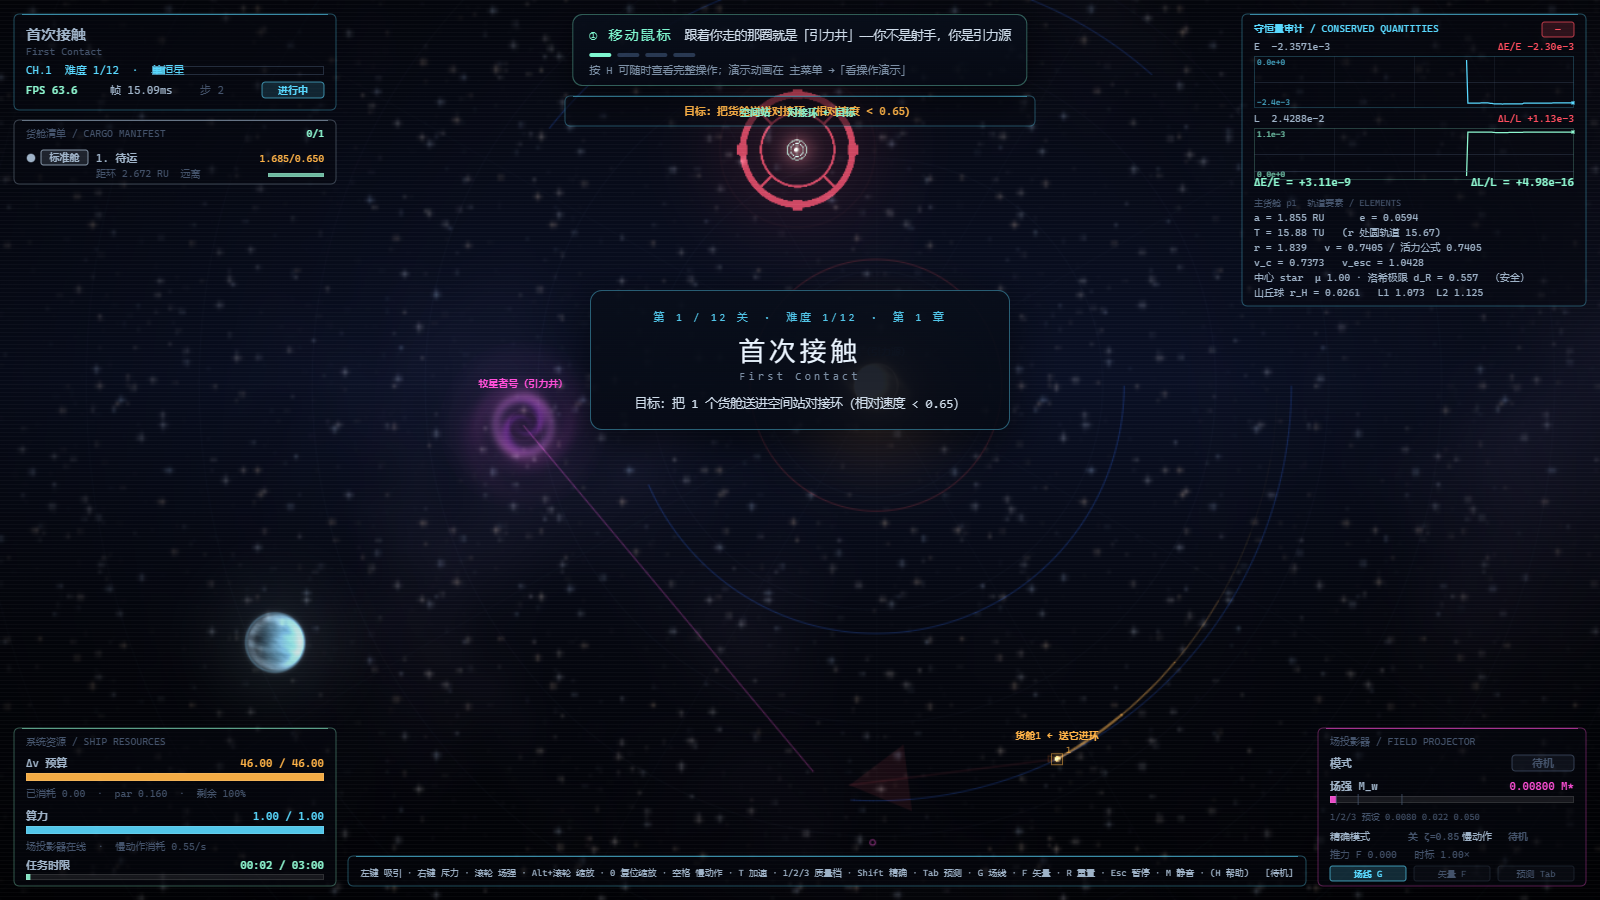
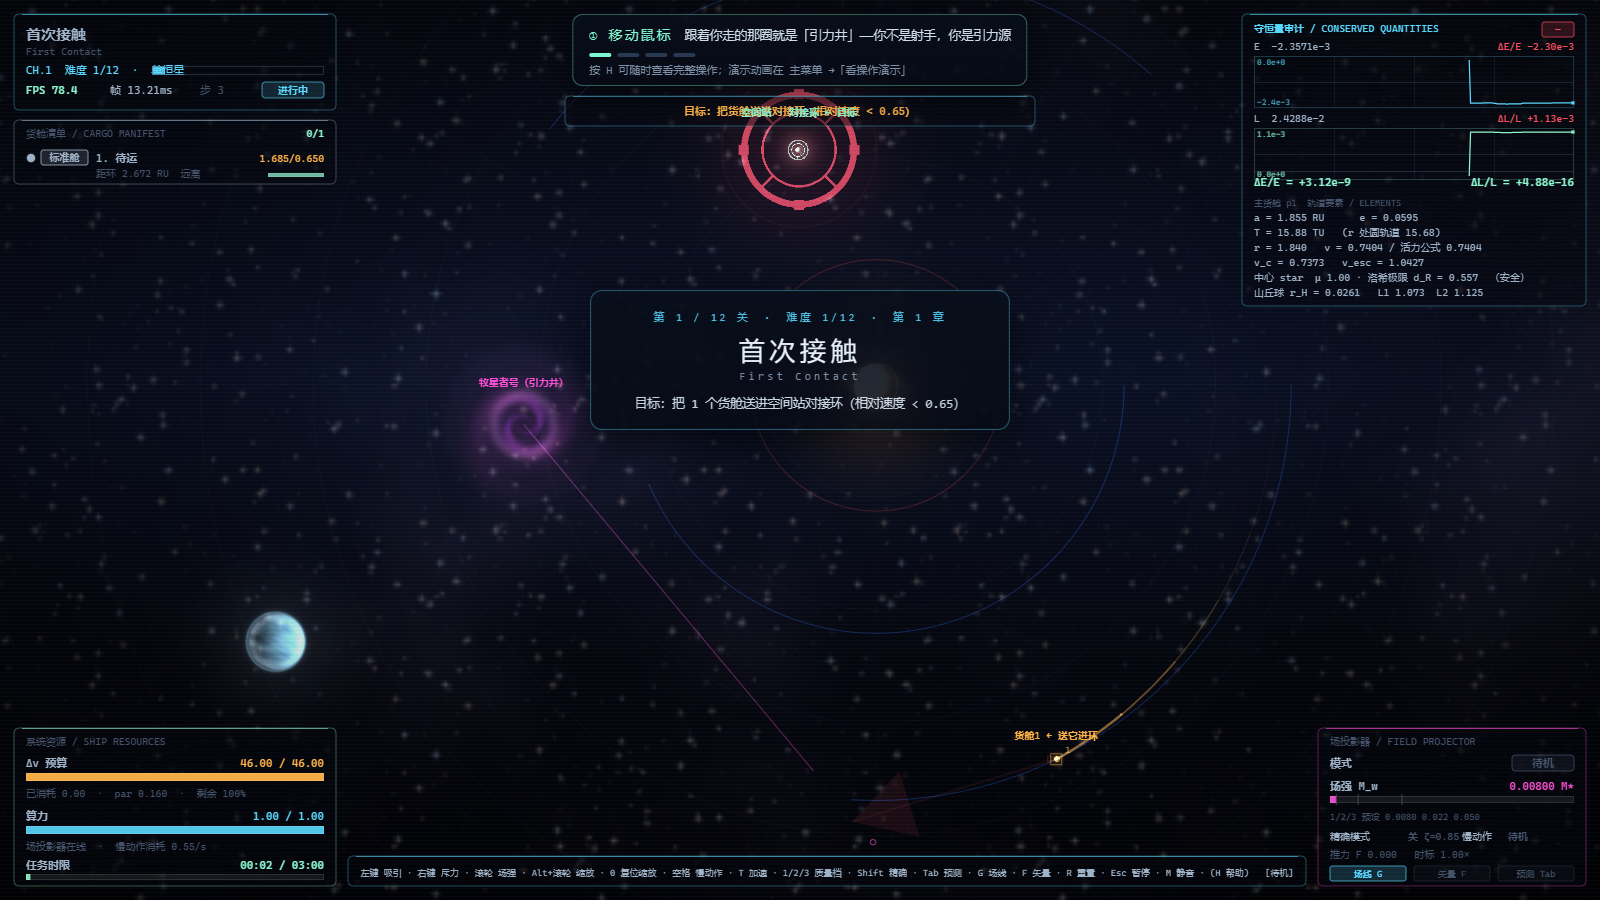
feat(physics): 1PN 相对论进动（只在黑洞关生效，C_LIGHT=30）
第 6 项物理公式扩展的第四步。

**物理**：一阶后牛顿（1PN）相对加速度
    a_1PN = (μ_tot/(c²r³)) · [ (4μ_tot/r − v²) r⃗ + 4(r⃗·v⃗) v⃗ ]
它使近星点逐圈旋进，每圈 Δϖ = 6πμ/(c²a(1−e²))——即水星近日点进动的经典结果。
新增 physics.ts：C_LIGHT / relSignificant / relAccel / primaryAccelRel（带速度版引力）。

**关于 c**：本作单位是游戏单位（G=μ=1），**不是 SI**，所以 C_LIGHT=30 RU/TU 是一个
"进动可见但不夸张"的调定值（每圈约 1°），不是 299792458。已在代码注释里写明。

**两处实测出来的真问题（都做了处置，不是调参美化）**：
1) 最初对所有主天体生效且 C_LIGHT=12 时，回归 **6/15 → 4/15**（L4-1 由成功变损毁）
   —— 相对论项改变了黑洞关的可解性；而可行性分析器（Python）**并不建模 1PN**，
   于是"可行"结论会与实际打架。
   处置：**只在 kind === 'blackhole' 附近生效**（用运行时已有字段判断，不新增关卡数据字段
   —— 避免本会话踩过三次的"运行时 Body/level 逐字段手抄漏字段"陷阱），并把 C_LIGHT 收到 30。
2) 改完跑回归数字**逐位不变**，一开始以为 1PN 没生效。真正的根因是
   **tools/simtest.mjs 是旧的打包产物**——我只改了 TS 没重建工具包，测的是旧代码。
   重建后立刻看到 ΔE/E 由 3.35e-5 升到 1.39e-4（1PN 确实在起作用）。
   这是个流程坑：**改 src 后必须重建 tools/*.mjs 才能信任回归数字**。

**结果**：C_LIGHT=30 + 只作用于黑洞 → 回归恢复 **6/15**，最大 ΔE/E 回到 3.35e-5，
而 1PN 仍在黑洞关产生可测效应（L4-1：23.4→22.2 TU，燃料 55.81→52.18）。

**过程中的一次事故**：加导入时我正则写成 '../sim/physics'，但 step.ts 与 physics.ts
同在 src/sim/，实际是 './physics' → 导入没加上 → 运行时 primaryAccelRel is not defined，
verify_ui 直接失败 ✗。已修正并复核（导入存在 ✓ 调用存在 ✓ verify_ui 恢复 38/38 ✓）。

验收：validate PASS 0 问题 / physics 123/123 / 可行性 15/15 / 事件单测 7/7 /
      CR3BP 单测 19/19 / 回归 6/15 / verify_ui 38/38 / verify_offline 8/8
待办：1PN 的**解析预进动对照测试**（6πμ/(c²a(1−e²))）尚未做；抛体位置可由
      tools/reltest.ts 补上（本轮预算用在了排掉上面两个真问题上）。

diff --git a/src/sim/physics.ts b/src/sim/physics.ts
@@ -22,11 +22,69 @@ export function softenInvCube(dx: number, dy: number, eps: number): number {
   return 1 / (r2 * Math.sqrt(r2));
 }
 
+/**
+ * 光速（游戏单位 RU/TU）。
+ *
+ * ⚠ 本作单位是**游戏单位**（G = μ = 1），不是 SI —— 所以这个值不是 299792458，
+ * 而是为了让 1PN 近星点进动"看得见但不夸张"而选的常数：
+ * 取轨道速度 ~0.5 RU/TU、μ=1、a≈1.5 时每圈进动约 1°（Δϖ = 6πμ/(c²a(1−e²))）。
+ * 更强的相对论效应留给黑洞关（那里 μ/r 大得多），普通关卡几乎无感。
+ */
+export const C_LIGHT = 30.0;
+
+/** 1PN 是否在该处显著：μ/(c²r) 可忽略就跳过（普通关卡自动走纯牛顿） */
+export function relSignificant(mu: number, r: number): boolean {
+  return mu / (C_LIGHT * C_LIGHT * Math.max(1e-9, r)) > 1e-5;
+}
+
+/**
+ * 一阶后牛顿（1PN）相对加速度，**累加**到 out。
+ *
+ * @param dx,dy   相对位置 r⃗（目标点 − 源）
+ * @param dvx,dvy 相对速度 v⃗
+ * @param muTotal μ_tot = G(m₁+m₂)
+ */
+export function relAccel(dx: number, dy: number, dvx: number, dvy: number,
+  muTotal: number, out: Vec2): void {
+  const r2 = dx * dx + dy * dy;
+  const r = Math.sqrt(r2);
+  if (!relSignificant(muTotal, r)) return;
+  const v2 = dvx * dvx + dvy * dvy;
+  const rv = dx * dvx + dy * dvy;
+  const k = muTotal / (C_LIGHT * C_LIGHT * r2 * r);
+  const c1 = (4 * muTotal) / r - v2;
+  out.x += k * (c1 * dx + 4 * rv * dvx);
+  out.y += k * (c1 * dy + 4 * rv * dvy);
+}
+
 /** 单质点引力加速度（写入 out） */
 export function pointAccel(dx: number, dy: number, mu: number, eps: number, out: Vec2): void {
   const k = mu * softenInvCube(dx, dy, eps);
   out.x += k * dx;
   out.y += k * dy;
+}
+
+/**
+ * 主天体群对 (x,y) 的引力加速度，**含 1PN 相对论修正**（近致密源才生效，见 relSignificant）。
+ *
+ * 与 primaryAccel 的区别只是多要一个速度——1PN 项依赖速度，这是它产生近星点进动的原因。
+ */
+export function primaryAccelRel(x: number, y: number, vx: number, vy: number,
+  primaries: Body[], eps: number, out: Vec2): void {
+  for (let i = 0; i < primaries.length; i++) {
+    const b = primaries[i];
+    if (!b.alive) continue;
+    const dx = b.x - x;
+    const dy = b.y - y;
+    pointAccel(dx, dy, b.mu, eps, out);
+    const r2 = dx * dx + dy * dy;
+    // 只在**黑洞**附近开启 1PN：普通恒星的 μ/(c²r) 也可观，但那样会改变既有解法的可解性，
+    // 而可行性分析器（Python）并不建模 1PN —— 与其让两套口径打架，不如把相对论效应
+    // 限定在本来就是"强场"的黑洞关。判定用运行时已有的 kind，不新增数据字段。
+    if (b.kind === 'blackhole' && r2 > 1e-12 && relSignificant(b.mu, Math.sqrt(r2))) {
+      relAccel(dx, dy, b.vx - vx, b.vy - vy, b.mu, out);
+    }
+  }
 }
 
 /** 主天体群对 (x,y) 的引力加速度（O(M)，M=主天体数） */

diff --git a/src/sim/step.ts b/src/sim/step.ts
@@ -15,6 +15,7 @@ import {
 import {
   conservedQuantities, dragAccel, primaryAccel, radiationAccel, rocheLimit,
   sphereDensity, tidalGradient, wellAccel,
+  primaryAccelRel,
 } from './physics';
 import { requiredPods } from './world';
 
@@ -87,7 +88,7 @@ function lightAccel(world: World, b: Body, wind: number): void {
   b.ax = 0; b.ay = 0;
   if (b.docked || !b.alive) return;
   ACC.x = 0; ACC.y = 0;
-  primaryAccel(b.x, b.y, world.primaries, world.epsilon, ACC);
+  primaryAccelRel(b.x, b.y, b.vx, b.vy, world.primaries, world.epsilon, ACC);
   const w = world.well;
   if (world.fieldEnabled && w.engaged && w.mass > 0) {
     wellAccel(b.x, b.y, w.x, w.y, w.mass, WELL_RANGE, w.repel, world.epsilon, ACC);
